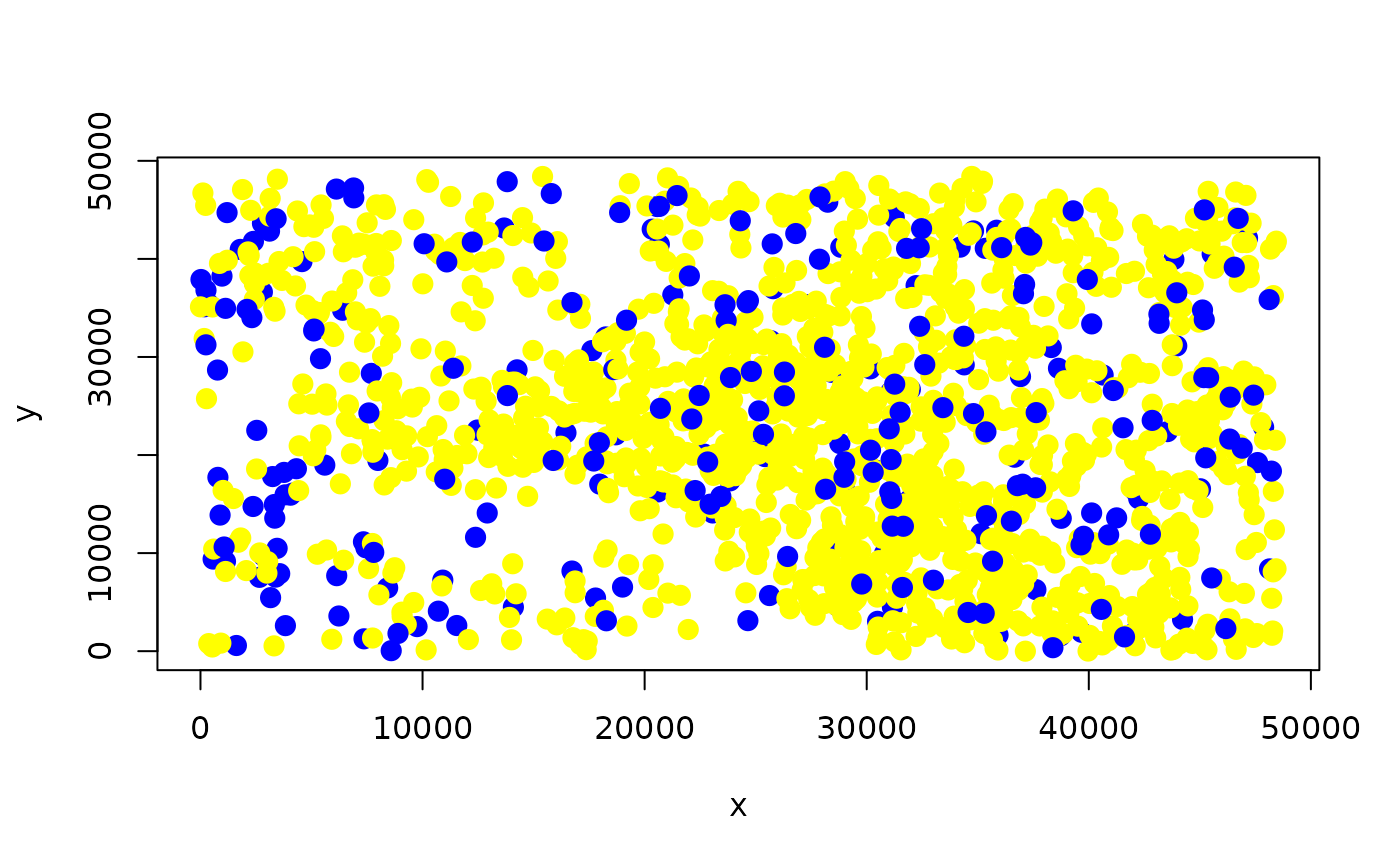
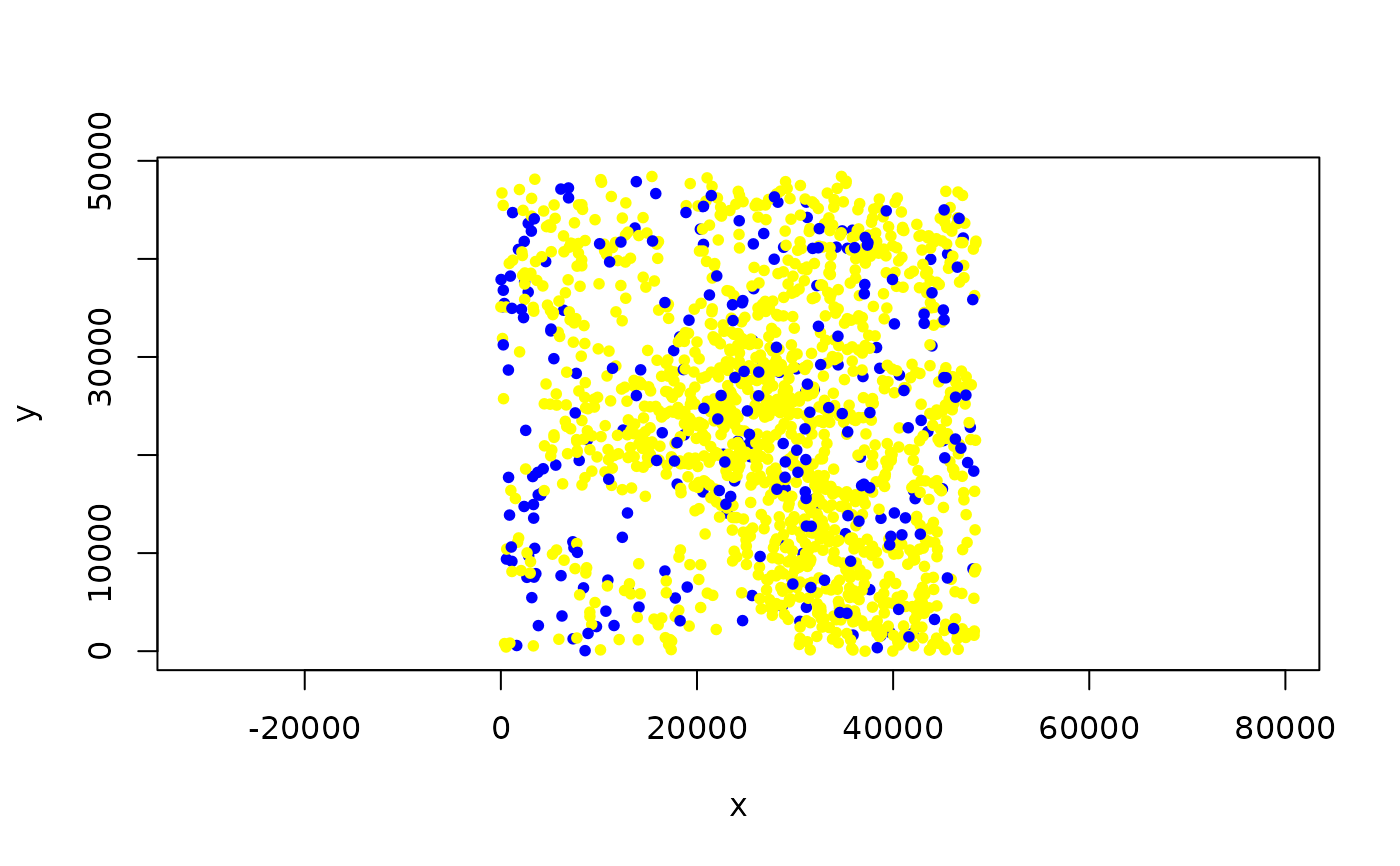
Deploying to gh-pages from @ stewid/SimInf@115d6aaca8918935c1272e42515e2444cf3e07b7 🚀

diff --git a/reference/nodes.html b/reference/nodes.html
@@ -102,7 +102,7 @@ visualize simulation results.</p>
 <span class="r-in"><span>    <span class="va">nodes</span>,</span></span>
 <span class="r-in"><span>    col <span class="op">=</span> <span class="fu"><a href="https://rdrr.io/r/base/ifelse.html" class="external-link">ifelse</a></span><span class="op">(</span><span class="va">infected</span>, <span class="st">"blue"</span>, <span class="st">"yellow"</span><span class="op">)</span>,</span></span>
 <span class="r-in"><span>    pch <span class="op">=</span> <span class="fl">20</span>,</span></span>
-<span class="r-in"><span>    cex <span class="op">=</span> <span class="fl">2</span></span></span>
+<span class="r-in"><span>    asp <span class="op">=</span> <span class="fl">1</span></span></span>
 <span class="r-in"><span><span class="op">)</span></span></span>
 <span class="r-plt img"><img src="nodes-1.png" alt="" width="700" height="433"></span>
 </code></pre></div>

diff --git a/reference/nodes.md b/reference/nodes.md
@@ -60,6 +60,6 @@ plot(
     nodes,
     col = ifelse(infected, "blue", "yellow"),
     pch = 20,
-    cex = 2
+    asp = 1
 )
 ```